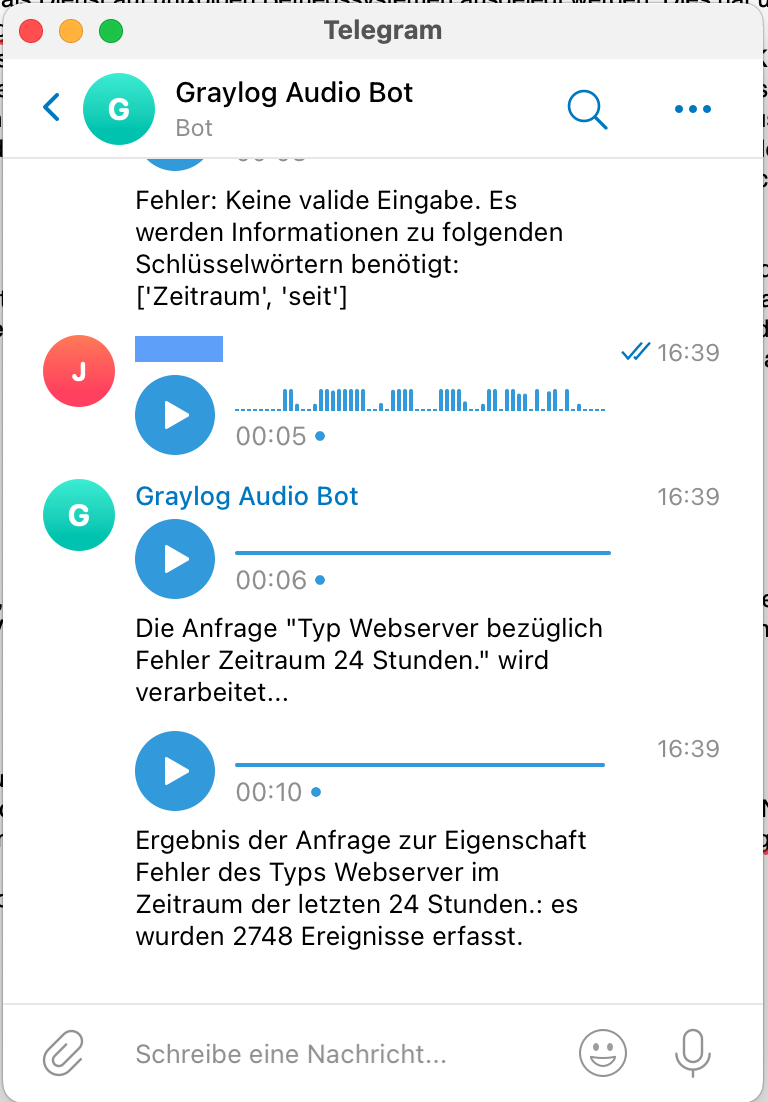
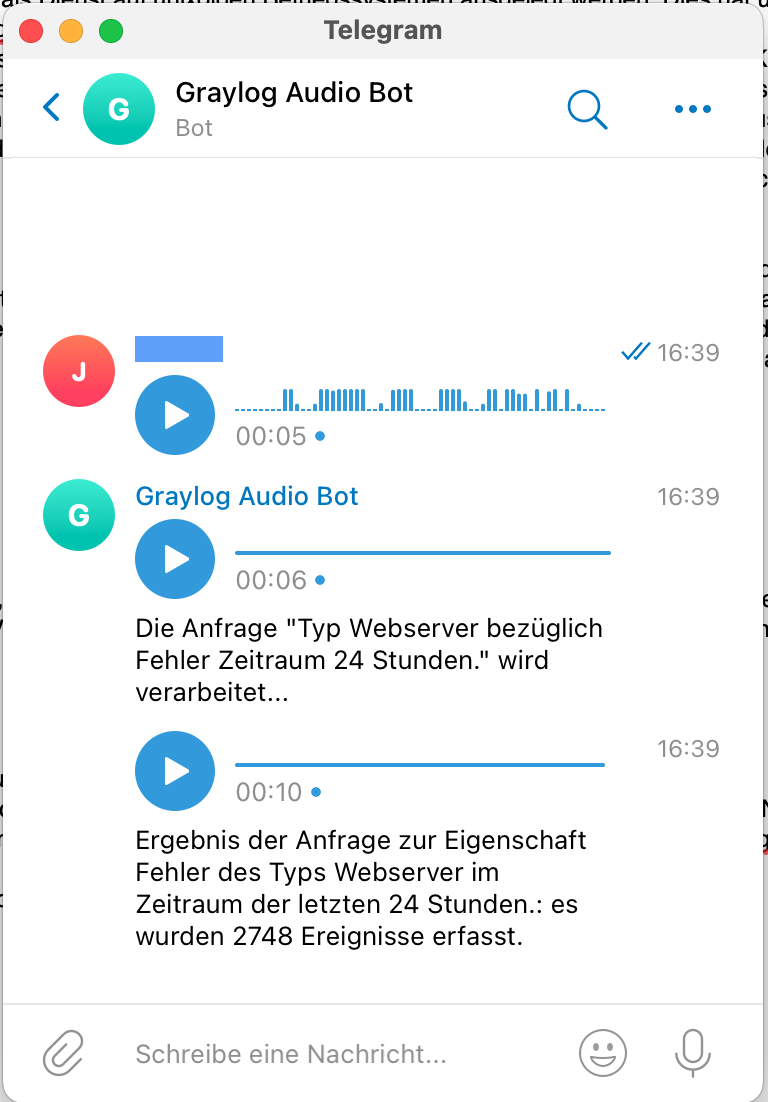
format

Changed region(s): [[0.1875, 0.1234, 0.7188, 0.2777]]

diff --git a/doc/tex/50_fazit.tex b/doc/tex/50_fazit.tex
@@ -9,17 +9,31 @@ Die Implementierung der Software verlief planmäßig, sodass die gestellten Anfo
 
 Auch aus Sicht der IT-Sicherheit bringt die Verwendung des Telegram-Bots Vorteile gegenüber der Verwendung der Graylog Webschnittstelle, sofern der Zugriff von außerhalb des Netzwerks erfolgt. Die Graylog-Instanz sammelt die Systemprotokolle sämtlicher Geräte im Netzwerk und ist damit ein besonders schützenswertes System in einem Firmennetzwerk. Der Zugriff von außerhalb sollte gut abgesichert werden. Es existieren mehrere Möglichkeiten, um webbasierte Systeme aus einem internen Netzwerk über das Internet erreichbar zu machen. Eine simple Möglichkeit besteht darin, auf dem Internetrouter eine Portweiterleitung einzurichten. Besser ist jedoch eine Veröffentlichung über einen 'reverse proxy'. Ein Proxy ist ein System, welches stellvertretend für ein weiteres System eine Kommunikation mit dem gewünschten Partner übernimmt. Häufig werden Proxies in Firmennetzwerken für die Filterung von besuchten Internetseiten eingesetzt. Dabei wendet sich ein PC im internen Netzwerk an den Proxyserver und fragt eine Internetressource an. Der Proxy agiert als Vermittler und bezieht die Internetressource, bevor er diese an den PC weiterleitet. Bei einem Reverse Proxy ist das Prinzip umgekehrt. Hier übernimmt der Vermittler die Kommunikation von Geräten außerhalb eines Netzwerks (beispielsweise dem Internet) stellvertretend für die Quelle und kontaktiert den gewünschten Verbindungspartner im internen Netzwerk. Der Vorteil eines reverse proxies gegenüber einer Portweiterleitung besteht darin, dass die HTTP-Anfragen detailliert bearbeitet, gefiltert und protokolliert werden können. Bestimmte Adressmuster, welche für Angriffe verwendet werden können so beispielsweise direkt blockiert werden. Der alleinige Einsatz eines reverse proxies mit Filter für die Veröffentlichung über das Internet reicht bei einem schützenswerten System nicht aus. Daher wird häufig eine HTTP-Authentifizierung zwischengeschaltet, welche durch die Anforderung von vom Ziel unabhängigen Zugangsdaten eine zusätzliche Sicherheitsebene schafft. Ein Reverse Proxy mit auf die Zielapplikation abgestimmten Filtermechanismen sowie einer zusätzlichen Authentifizierungsschicht bietet ausreichenden Schutz für eine Veröffentlichung im Internet. Der Einsatz eines solchen Reverse Proxies mit Graylog ist jedoch nicht möglich, da Graylog nicht kompatibel zu Anfragen mit HTTP-Authentifizierung ist \footnote{Fehlerbericht und Erweiterungsvorschlag eines Anwenders, welcher Graylog über einen reverse proxy mit HTTP-Authentifizierung erreichbar machen möchte: \url{https://github.com/Graylog2/graylog2-server/issues/6831}}. Eine Alternative zum Reverse Proxy bietet ein Dienst, welcher die Funktion eines Proxys oder Stellvertreters für die Verbindung zur Graylog-Webschnittstelle schafft. Dieser Dienst kann für beliebige Funktionen implementiert werden, welche über die Graylog REST-API Daten beziehen und weiterverarbeiten. Die in dieser Abschlussarbeit implementierte Software ist ein Beispiel für einen solchen Vermittler auf Applikationsebene.
 
+\section{Anwendung}
+
+Der Code der entwickelten Software wurde über ein GitHub-Repository \footnote{tbd} veröffentlicht, sodass die Installation und Konfiguration des Bots für eine eigene Installation von Graylog wiederverwendet oder optimiert werden kann. Für den Betrieb ist es notwendig, zuvor die angeschlossenen Dienste inkl. der API-Zugriffsdaten zu konfigurieren. Im Anschluss kann die Software mit einem Python Interpreter ausgeführt werden und ist einsatzbereit, sobald die Vorbereitungsphase abgeschlossen ist. Mithilfe der aktivierten ausführlichen Ausgaben zum Programmablauf können die Vorgänge und dessen Auslöser gut zurückverfolgt werden. Im Folgenden zeigen zwei Abbildungen die Interaktion mit dem Bot über den Telegram Messenger:
+
+\newpage
+
 \begin{figure}[h!]
 \centering
 \includegraphics[scale=0.7]{bsp-betrieb}
 \caption{Bot beantwortet eine Anfrage in Telegram für macOS.}
 \end{figure}
+\label{fig:bsp-betrieb}
+
+Die obige Abbildung zeigt, wie der Bot eine Anfrage beantwortet. Zuerst wird dem Benutzer eine Rückmeldung gesendet, sobald die Transkription fertiggestellt ist. Im Anschluss erfolgt die Beantwortung der eingesendeten Anfrage. Alle Nachrichten des Bots werden in einer kombinierten Sprachnachricht gesendet, welche zusätzlich den gesprochenen Text in geschriebener Form enthält. Zusätzlich ist es möglich, Anfragen per Textnachricht einzusenden, wie \autoref{fig:bsp-fehler} zeigt:
 
 \begin{figure}[h!]
+\label{fig:bsp-fehler}
 \centering
 \includegraphics[scale=0.7]{bsp-fehler}
 \caption{Bot reagiert auf fehlerhafte Anfrage in Telegram für macOS.}
 \end{figure}
+
+\FloatBarrier
+
+In \autoref{fig:bsp-fehler} wurde dem Bot eine Nachricht zugestellt, welche nicht die erforderlichen Informationen beinhaltet. Der Bot prüft dies anhand der konfigurierten Schlüsselwörter und weißt den Anwender auf jede fehlende Information hin. 
 
 \section{Ausblick}
 

diff --git a/doc/tex/ba.tex b/doc/tex/ba.tex
@@ -31,6 +31,7 @@
 \usepackage{graphicx}
 \usepackage{scrhack}
 \usepackage{hyperref}
+\usepackage{placeins}
 \parindent0pt\parskip6pt
 
 \usepackage{listings}
